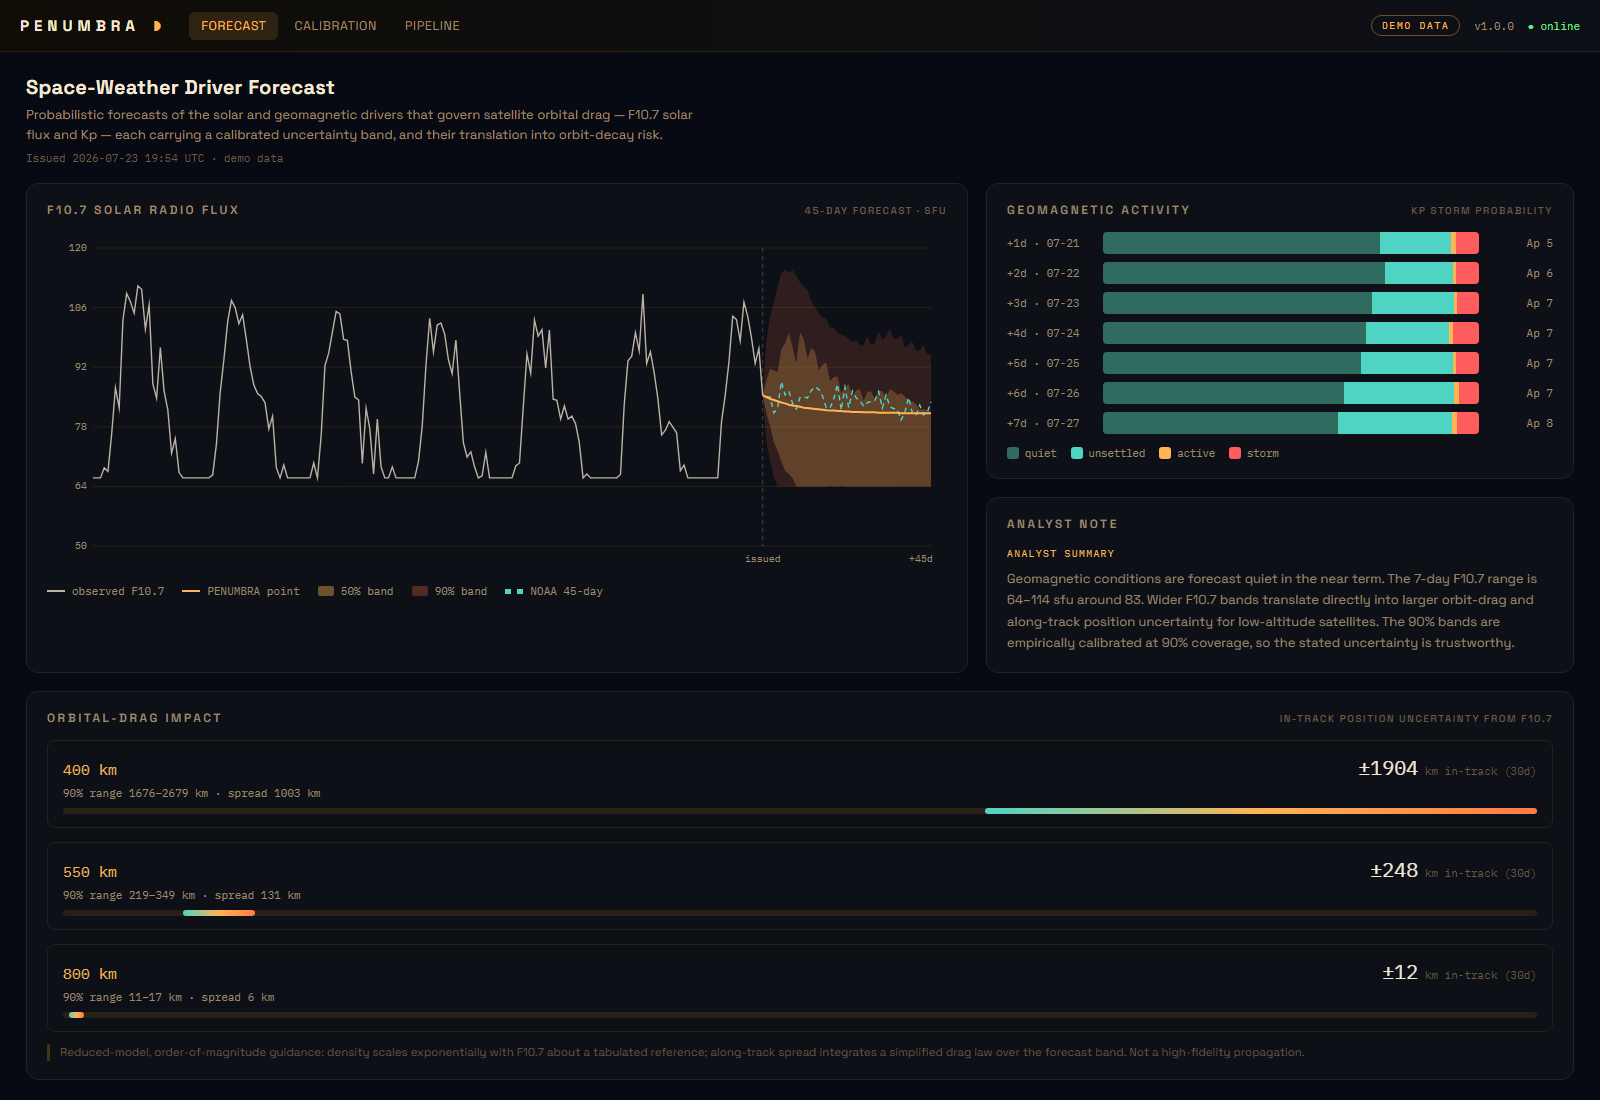
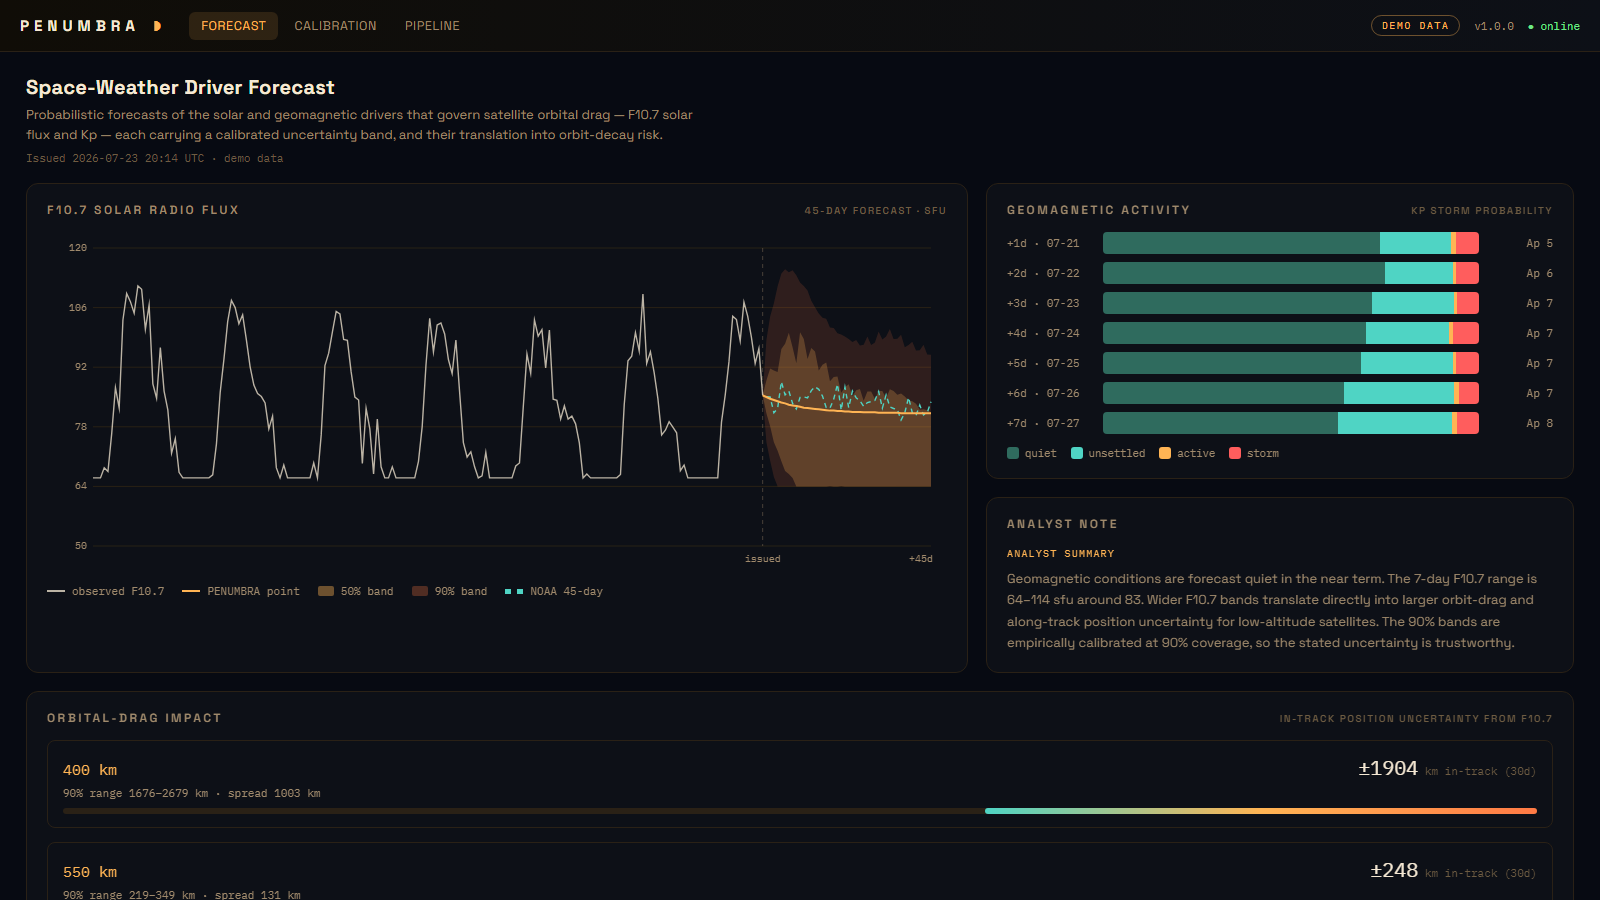
Narrated video demo (2:57) + narration script
10-scene walkthrough: problem -> pipeline -> dashboard -> honest calibration
-> the orbit bridge to KESSLER -> implement -> API -> links. Solar-themed
frames, ElevenLabs-ready narration script for re-voicing.

diff --git a/documents/pitch/narration-script.md b/documents/pitch/narration-script.md
@@ -1,0 +1,35 @@
+# PENUMBRA — Demo Video Narration Script
+
+The bundled `penumbra-demo.mp4` uses synthesized narration. To replace it with a natural
+voice (e.g. ElevenLabs), generate **one clip per scene** named `voice01`…`voice10`, and the
+video can be re-muxed to your clip lengths. Clean text (no TTS spelling hacks) below.
+
+**Scene 1 — Title**
+> This is PENUMBRA. It forecasts the space weather that governs satellite orbits — and unlike every operational product, it tells you how much to trust each forecast.
+
+**Scene 2 — The problem**
+> Here's the problem. Atmospheric drag is the largest source of orbit-prediction error in low Earth orbit. The forecasts that drive it — solar flux and geomagnetic activity — are published as single numbers, with no uncertainty at all. In 2022, a single solar storm de-orbited around forty new Starlink satellites — exactly this blind spot.
+
+**Scene 3 — What it does**
+> PENUMBRA is a six-stage pipeline. It pulls the free NOAA feeds, then runs a leakage-free walk-forward backtest to learn the real distribution of forecast errors, and produces forecasts of F10.7 and Kp with uncertainty bands you can actually trust.
+
+**Scene 4 — Dashboard**
+> This is the live dashboard. The solar flux forecast is drawn as a fan, with nested 50% and 90% uncertainty bands, and NOAA's own forecast overlaid. Alongside it, the daily probability of a geomagnetic storm.
+
+**Scene 5 — Honest by construction**
+> The uncertainty is honest by construction. The bands are learned from out-of-sample errors, never fit in-sample. So a 90% band actually contains the truth 90% of the time — and PENUMBRA beats the persistence baseline at 36 of 45 lead times.
+
+**Scene 6 — Calibration**
+> This is the calibration page — the credibility artifact. Every metric comes from the backtest: coverage against target, skill against baseline, and storm reliability. It even shows where the model is weaker.
+
+**Scene 7 — Why it matters**
+> And here's why it matters. That flux uncertainty becomes position uncertainty. At 400 kilometers, the F10.7 band alone implies nineteen hundred kilometers of in-track uncertainty over a month. PENUMBRA feeds this straight into KESSLER, its conjunction-assessment companion. Together — an open orbital-risk stack.
+
+**Scene 8 — Implement it**
+> To run it: clone the repository, create a virtual environment, install the requirements, and start the server. It works instantly on bundled data. No accounts, no keys. Set one flag for live NOAA data.
+
+**Scene 9 — The API**
+> Everything is a typed REST API. Solar flux forecasts. Storm probabilities. Drag uncertainty by altitude. The full calibration report. And interactive documentation at slash-docs.
+
+**Scene 10 — Close**
+> PENUMBRA is open source, calibrated, and running live right now. Try the demo, read the code, or pair it with KESSLER. Links on screen.